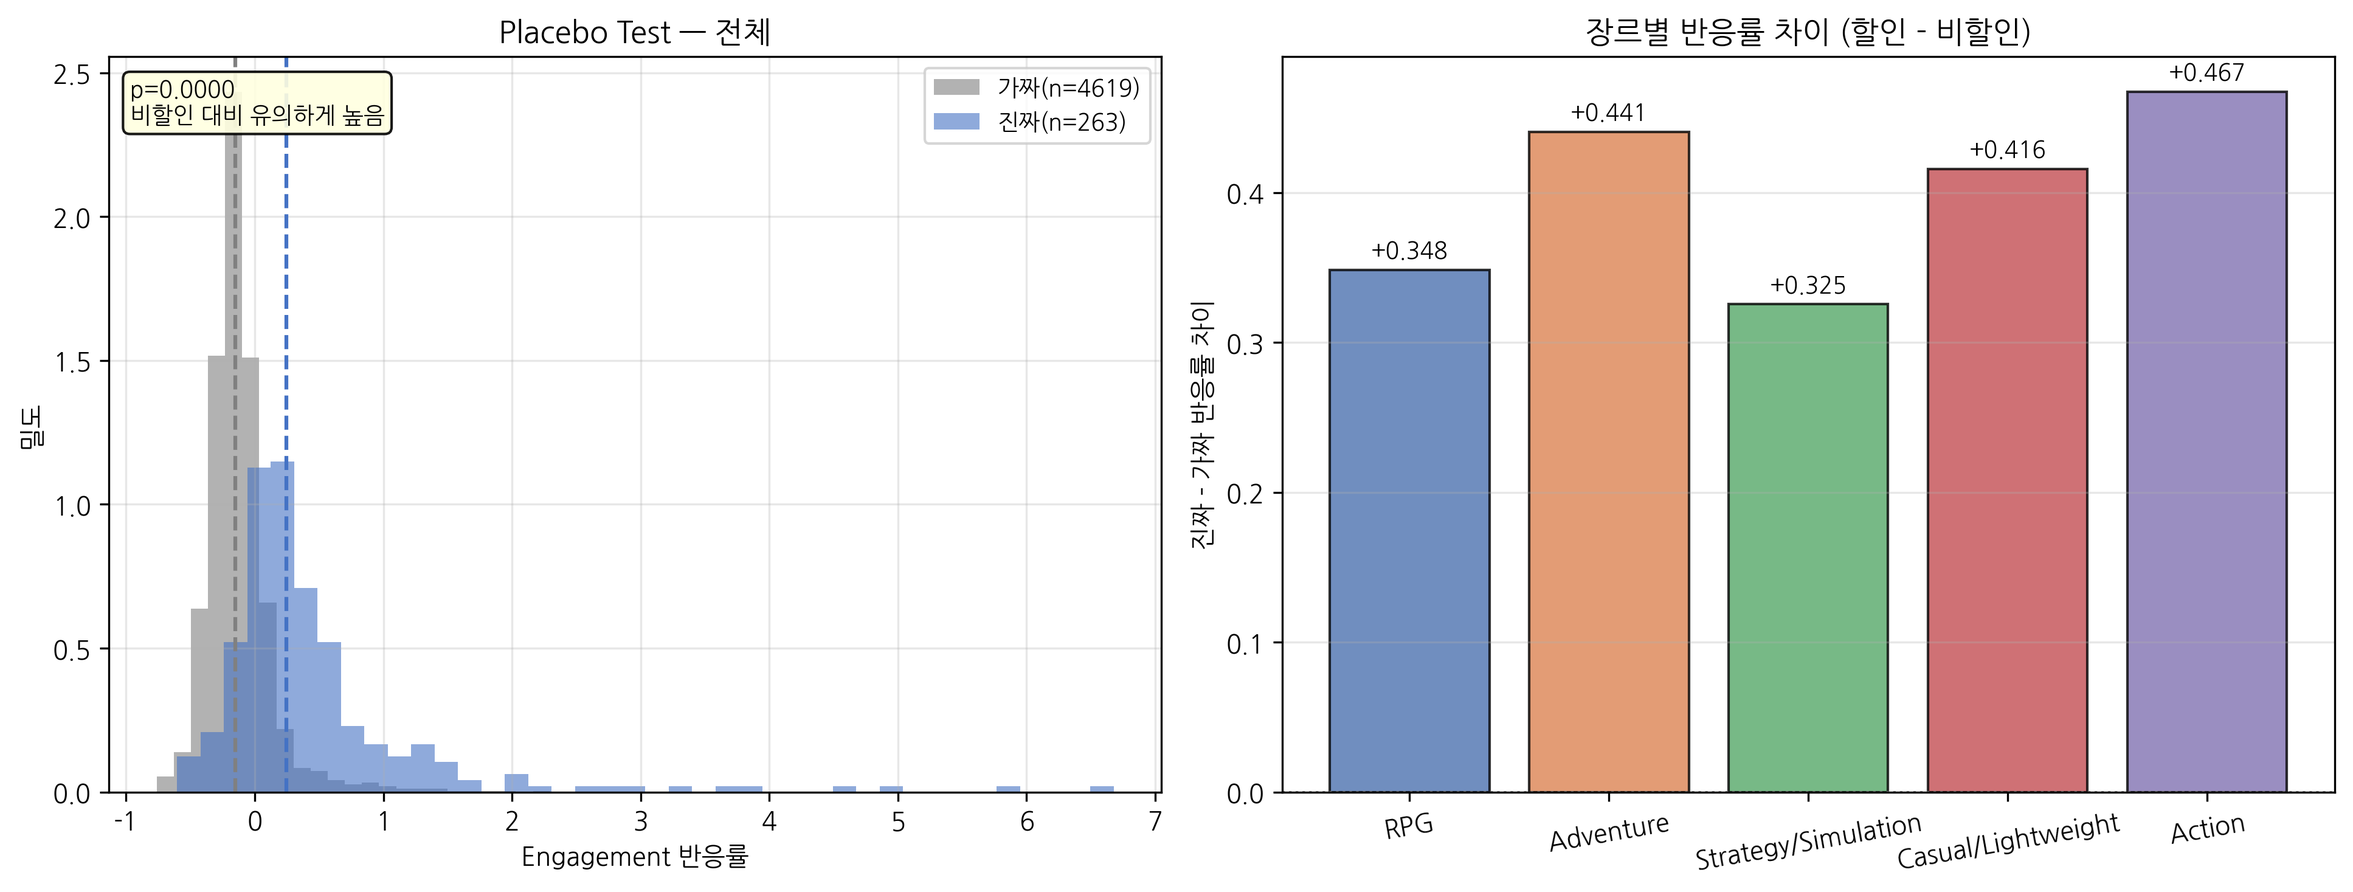
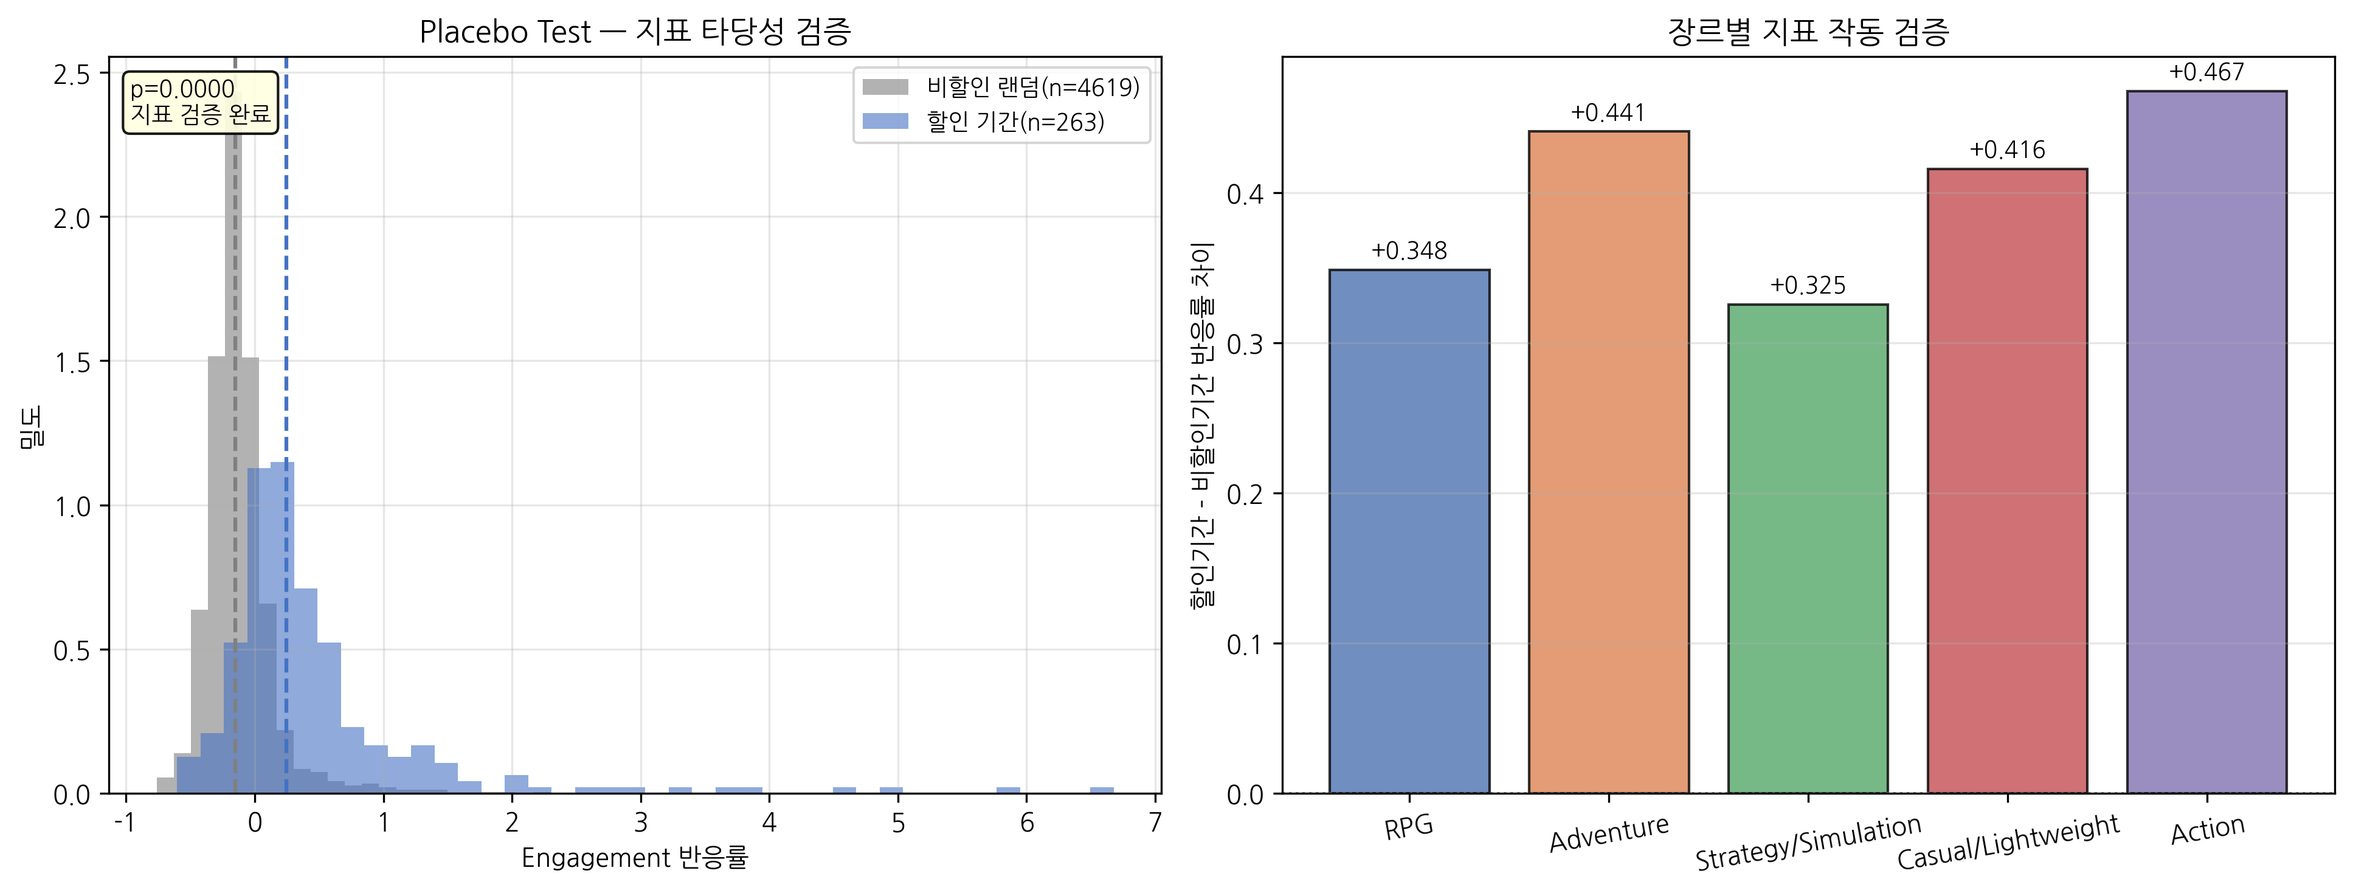
진짜 데이터 전처리 마무리 찐 최종

diff --git a/docs/분석_핵심인사이트.md b/docs/분석_핵심인사이트.md
@@ -1,4 +1,4 @@
-# 분석 핵심 인사이트 — 비직관적 발견 정리
+# 분析 핵심 인사이트 — 비직관적 발견 정리
 
 > 뻔한 결론("할인은 효과가 있다") 말고, 데이터에서 나온 의외의 발견만 추린 문서.  
 > 발표 스크립트 및 웹앱 기획 참고용.
@@ -9,7 +9,7 @@
 
 **확실하게 나온 것 (p < 0.05)**
 - 할인율이 높을수록 반응이 크다 (p=0.004)
-- 할인 기간의 반응 증가가 우연이 아니다 (Placebo Test, p<0.0001)
+- 지표가 실제 할인 이벤트를 감지함 (Placebo Test, p<0.0001)
 
 **패턴은 보이지만 통계적으로 확정하기 어려운 것**
 - 장르별 반응률 차이 (p=0.52) — 경향은 있어 보이지만 우연일 수 있음
@@ -21,10 +21,38 @@
 
 ---
 
+## 지표 검증 — Engagement 반응률 지표가 할인 이벤트를 감지하는가
+
+> 이 섹션은 인사이트가 아니라 **분석 방법론의 타당성 확인**이다.  
+> 발표에서는 인사이트가 아닌 방법론 슬라이드에 배치 권장.
+
+**수치**
+- 진짜 할인 기간 반응률 중앙값: **+0.244** (n=263)
+- 할인이 없던 랜덤 기간 반응률 중앙값:
+  - 기본 기준(모든 무할인 윈도우): **-0.152** (n=4,619)
+  - 보수적 기준(할인 전후 30일 버퍼 제외): **-0.078**
+- 두 기준 모두 Mann-Whitney **p<0.0001** — 5개 장르 모두 동일
+
+**해석**
+
+"할인 기간에 리뷰가 늘어난 게 할인 때문인가, 아니면 그냥 그 시기에 원래 많았던 건가?"
+이 의심을 해소하기 위해, 같은 게임의 할인이 없던 기간을 랜덤하게 골라 같은 방식으로 반응률을 계산했다.
+
+가짜 기간이 마이너스(-0.152)인 이유는, 게임 리뷰는 출시 직후가 가장 많고 시간이 지나면서 자연스럽게 줄어들기 때문이다. 그래서 임의의 7일 윈도우를 고르면 대부분 "직전 30일보다 낮다"는 결과가 나온다.
+
+반면 진짜 할인 기간(+0.244)은 이 자연 감소 흐름과 달리 리뷰 반응이 증가하는 패턴을 보였다. 이는 **우리가 정의한 Engagement 반응률 지표가 실제 할인 이벤트를 구분할 수 있음을 보여준다.**
+
+**발표 활용**
+> "저희가 정의한 Engagement 반응률 지표가 실제 할인 기간과 비할인 기간을 구분할 수 있는지 Placebo Test로 검증했습니다. 할인이 없던 랜덤 기간은 -0.152인 반면, 진짜 할인 기간은 +0.244로 통계적으로 유의미하게 높았습니다(p<0.0001). 단, 이는 완벽한 인과관계 증명이 아니라 지표 타당성 확인입니다."
+
+**주의: 게임 업데이트나 외부 이슈 같은 요인은 완전히 통제되지 않았다.**
+
+---
+
 ## 인사이트 1. Action은 사람이 가장 많이 몰리지만, 긍정률 하락 폭도 가장 크다
 
 **수치**
-- Engagement 반응률: **0.269** (표본 기준 1위, 단 탐색적 결과)
+- Engagement 반응률: **0.269** (표본 기준 1위, 탐색적 결과)
 - 할인 중 긍정률 변화: **-1.9%p**
 - 95% 신뢰구간: [-4.2%p, **+0.0%p**] — 0을 아슬아슬하게 포함
 
@@ -36,7 +64,7 @@
 
 → "많이 팔리는 게 무조건 좋은 건 아니다. Action은 유입은 되지만 만족도 리스크가 있다."
 
-**주의: Action 이벤트가 32건으로 다른 장르(54~87건)보다 적어 탐색적 결과다.**
+**⚠ 탐색적 결과: Action 이벤트 32건, 장르 차이 p=0.52로 확정 불가**
 
 ---
 
@@ -71,12 +99,11 @@
 **해석**
 
 긍정률이 올랐다는 방향은 맞지만, 신뢰구간이 0을 포함하기 때문에
-"유일하게 확실하게 올랐다"고 말하기보다는
-"유일하게 올라가는 경향을 보였다" 수준이 안전하다.
-
-그래도 방향 자체는 흥미롭다. 진입장벽이 높은 장르라 각오하고 들어온 사람만 남기 때문으로 해석된다.
+"유일하게 확실하게 올랐다"보다는 "유일하게 올라가는 경향을 보였다" 수준이 안전하다.
 
 → "Strategy 할인은 사람은 적게 들어오지만, 들어온 사람의 만족도가 유지되는 경향이 있다."
+
+**⚠ 탐색적 결과: CI가 0을 포함하여 통계적으로 확정 불가**
 
 ---
 
@@ -116,37 +143,11 @@
 다만 인기도·장르·할인율이 함께 영향을 미칠 수 있어서 "희소성 때문"이라고 단정하기보다
 "이런 경향이 관찰됐다" 수준이 안전하다.
 
----
-
-## 인사이트 6. 할인 기간 반응 증가가 우연이 아니라는 게 확인됐다 ★★ (Placebo Test)
-
-**수치**
-- 진짜 할인 기간 반응률 중앙값: **+0.244** (n=263)
-- 할인이 없던 랜덤 기간 반응률 중앙값:
-  - 기본 기준(모든 무할인 윈도우): **-0.152** (n=4,619)
-  - 보수적 기준(할인 전후 30일 버퍼 제외): **-0.078**
-- 두 기준 모두 Mann-Whitney **p<0.0001** — 5개 장르 모두 동일
-
-**해석**
-
-"할인 기간에 리뷰가 늘어난 게 할인 때문인가, 아니면 그냥 그 시기에 원래 많았던 건가?"
-이 의심을 해소하기 위해, 같은 게임의 할인이 없던 기간을 랜덤하게 골라 같은 방식으로 반응률을 계산했다.
-
-그랬더니 할인이 없던 기간의 반응률이 오히려 마이너스(-0.078)가 나왔다.
-게임은 출시 직후 리뷰가 많고 시간이 지나면서 자연스럽게 줄어드는데,
-이 자연 감소 기간을 랜덤하게 뽑으면 "직전 30일보다 낮은 7일"이 나오는 게 당연하다.
-진짜 할인 기간(+0.244)은 이 자연 감소 흐름을 뒤집을 만큼 반응을 만들어냈다는 뜻이다.
-
-→ "완벽한 인과관계 증명은 아니지만, 할인 기간의 반응 증가가 단순 우연이나 자연 추세만으로 설명하기 어렵다는 보강 근거를 확보했다."
-
-**주의: 게임 업데이트나 외부 이슈 같은 요인은 완전히 통제되지 않았다.**
-
-**발표 활용**
-> "같은 게임의 할인이 없던 기간과 비교했을 때, 진짜 할인 기간이 통계적으로 유의미하게 높았습니다 (p<0.0001). 단, 이는 완벽한 인과관계 증명이 아니라 보강 근거입니다."
+**⚠ 탐색적 결과: p=0.07로 통계적으로 확정 불가**
 
 ---
 
-## 인사이트 7. Casual/Lightweight는 게임 단위로 보면 압도적 1위다
+## 인사이트 6. Casual/Lightweight는 게임 단위로 보면 가장 높은 반응을 보였다
 
 **수치**
 
@@ -157,14 +158,14 @@
 
 **해석**
 
-이벤트 단위로 보면 3위지만, 게임 하나하나를 기준으로 보면 압도적 1위다.
+이벤트 단위로 보면 3위지만, 게임 단위 기준에서는 가장 높은 반응을 보였다.
 Casual 장르 중 자주 할인하는 게임들의 반응이 약해서 이벤트 평균을 끌어내리고 있었던 것이다.
 
 → "Casual 게임은 자주 할인하면 반응률이 깎이는 경향이 있다. 드문 할인이 더 효과적일 가능성이 있으며, 전략적으로 고려할 수 있다."
 
 ---
 
-## 인사이트 8. 할인을 많이 깎을수록 반응이 커진다 ★ (데이터에서 가장 확실한 신호)
+## 인사이트 7. 할인을 많이 깎을수록 반응이 커진다 ★ (데이터에서 가장 확실한 신호)
 
 **수치**
 
@@ -182,14 +183,16 @@ Casual 장르 중 자주 할인하는 게임들의 반응이 약해서 이벤트
 장르 차이(p=0.52)나 시즌 차이(p=0.13~0.52)보다 훨씬 확실한 신호다.
 할인율이 높아질수록 반응률이 일관되게 증가한다.
 
+처음에는 장르별 차이를 기대했는데, 검증해보니 장르보다 할인 강도가 더 강한 신호로 나타났다는 점이 핵심이다.
+
 → "어떤 장르냐보다 얼마나 깎느냐가 더 중요하다."
 
 **발표 활용**
-> "통계적으로 가장 강한 신호는 장르가 아니라 할인율이었습니다. 많이 깎을수록 반응이 컸고, 이건 p=0.004로 확인됐습니다."
+> "처음에는 장르별 차이를 기대했지만, 검증 결과 장르 차이는 p=0.52로 확정하기 어려웠습니다. 오히려 할인율이 높을수록 반응률이 증가하는 패턴이 p=0.004로 더 강하게 확인됐습니다."
 
 ---
 
-## 인사이트 9. 시즌 세일은 단기 반응이 높고 유지율은 낮은 경향이 있다
+## 인사이트 8. 시즌 세일은 단기 반응이 높고 유지율은 낮은 경향이 있다
 
 **수치**
 
@@ -206,10 +209,26 @@ Casual 장르 중 자주 할인하는 게임들의 반응이 약해서 이벤트
 방향은 흥미롭다. 시즌 세일에는 사람이 더 몰리지만, 끝나고 나서는 유지율이 더 낮다.
 하지만 이 차이가 통계적으로 확실하지는 않다.
 
-쉽게 말하면, 데이터가 더 많았다면 의미 있게 나왔을 수도 있지만
-지금 데이터에서는 "경향이 보인다" 수준이다.
+"많이 몰리는 할인 ≠ 오래 남는 할인"이라는 해석이 가능하지만, 탐색적 패턴으로 제시해야 한다.
 
 → "시즌 세일의 단기·장기 역전 패턴은 흥미로운 경향이나, 확정적 결론보다는 탐색적 관찰로 제시한다."
+
+**⚠ 탐색적 결과: 반응률 p=0.52, 유지율 p=0.13으로 통계적으로 확정 불가**
+
+---
+
+## 최종 결론
+
+본 프로젝트의 결론은 **"할인하면 반응이 증가한다"가 아니다.**
+
+할인은 단기 유입을 만들지만, 그 유입이 장기 유지나 긍정적 경험으로 이어지는지는
+**할인율·시즌성·장르 특성에 따라 달랐다.**
+
+따라서 Steam 할인 전략은 단순히 할인율을 높이는 방식이 아니라,
+단기 반응·유지율·만족도 리스크를 함께 고려해야 한다.
+
+**발표 마지막 문장 권장:**
+> "할인은 단기 유입을 만들지만, 그 유입이 유지율과 만족도로 이어지는 방식은 조건에 따라 달랐습니다. 따라서 할인 전략은 할인율뿐 아니라, 언제 할인하고 얼마나 자주 할인하는지를 함께 고려해야 합니다."
 
 ---
 
@@ -229,6 +248,14 @@ Casual 장르 중 자주 할인하는 게임들의 반응이 약해서 이벤트
 
 ## 예상 질문 대응
 
+### Q. "할인 기간 반응 증가는 당연한 거 아닌가요?"
+
+**A. 맞습니다. 그래서 그 결과를 핵심 인사이트로 제시하지 않았습니다.**
+
+Placebo Test는 인사이트가 아니라, 저희가 정의한 Engagement 반응률 지표가 실제 할인 이벤트를 구분할 수 있는지 확인하는 검증 단계입니다. 핵심 인사이트는 할인으로 생긴 반응이 유지율과 긍정률로 이어지는 방식이 조건별로 달랐다는 점입니다.
+
+---
+
 ### Q. "장르별로 다르다는 게 통계적으로 증명된 건가요?"
 
 **A. 솔직히 말하면 아닙니다. 그래서 탐색적 결과라고 했습니다.**
@@ -237,21 +264,17 @@ Casual 장르 중 자주 할인하는 게임들의 반응이 약해서 이벤트
 
 대신 이 프로젝트에서 통계적으로 확실히 나온 건 두 가지입니다:
 - 할인율이 높을수록 반응이 크다 (p=0.004)
-- 할인 기간 반응 증가가 단순 우연이 아니다 (Placebo Test, p<0.0001)
+- 지표가 할인 이벤트를 감지함 (Placebo Test, p<0.0001)
 
 이 두 가지를 메인 결론으로, 장르·시즌 차이는 "이런 경향이 보였다"는 탐색적 결과로 발표하는 게 가장 방어하기 좋습니다.
 
 ---
 
-### Q. "Placebo Test로 할인이 원인이라고 증명된 건가요?"
+### Q. "할인율이 높으면 반응 높은 것도 당연하지 않나요?"
 
-**A. 완전한 증명은 아닙니다. 보강 근거입니다.**
+**A. 방향은 직관적이지만, 핵심은 장르보다 할인율이 더 강한 신호였다는 점입니다.**
 
-게임 업데이트, 스트리머 영향, 외부 이슈 같은 요인은 통제되지 않았습니다.
-다만 "같은 게임의 할인 없던 기간보다 할인 기간이 통계적으로 유의하게 높다"는 건 확인됐으니,
-단순한 자연 추세나 우연만으로 설명하기는 어렵다는 보강 근거입니다.
-
-> **한 줄 요약:** "증명은 아니지만, 우연이라고 보기도 어렵다."
+처음에는 장르별 차이를 기대했는데, 검증해보니 장르 차이(p=0.52)보다 할인율(p=0.004)이 더 강한 신호였습니다. 즉 "어떤 장르냐"보다 "얼마나 깎느냐"가 사용자 반응을 더 잘 설명했다는 게 핵심입니다.
 
 ---
 
@@ -262,8 +285,6 @@ Casual 장르 중 자주 할인하는 게임들의 반응이 약해서 이벤트
 Steam 스토어 페이지에는 리뷰 기반 평점 배지가 붙습니다.
 - 긍정 비율 95%+ → "매우 긍정적" 배지 → 더 많이 팔림
 - 70% 아래 → "복합적" 배지 → 첫인상이 나빠져 정가 판매 감소
-
-지금 팔렸더라도 평점이 깎이면 이후엔 덜 팔립니다.
 
 > **한 줄 요약:** "구매는 됐지만, 나쁜 리뷰는 다음 구매자를 막습니다."
 
@@ -276,8 +297,8 @@ Steam 스토어 페이지에는 리뷰 기반 평점 배지가 붙습니다.
 입력 순서를 데이터에서 강한 신호 순으로 구성:
 
 **입력**
-1. **할인율** (슬라이더, 10~90%) — 가장 강한 신호
-2. **할인 타이밍** (시즌 세일 / 평시 할인) — 두 번째 신호
+1. **할인율** (슬라이더, 10~90%) — 가장 강한 신호 (p=0.004)
+2. **할인 타이밍** (시즌 세일 / 평시 할인) — 두 번째 신호 (탐색적)
 3. **장르** (참고용 — "탐색적 결과" 라벨 명시)
 4. **연간 할인 횟수** (슬라이더, 1~10회)
 
@@ -285,8 +306,20 @@ Steam 스토어 페이지에는 리뷰 기반 평점 배지가 붙습니다.
 - 과거 유사 조건 기준 반응률 범위 (신뢰구간 포함)
 - 유지율 전망
 - 긍정률 리스크
-- 신뢰도 배지 (할인율: 높음 / 장르: 낮음 / 시즌성: 중간)
+- 신뢰도 배지: 할인율 높음 / 장르 낮음 / 시즌성 중간
 - 전략 메시지
 
 **주의**: 예측 모델이 아니라 과거 패턴 기반 참고 도구.
 "이 조건에서 반응률이 0.XX였습니다"가 아니라 "이 조건의 과거 유사 이벤트 범위"로 표현.
+
+---
+
+## 발표에서 피해야 할 단어 vs 권장 단어
+
+| ❌ 피해야 할 표현 | ✅ 권장 표현 |
+|---------------|-----------|
+| 증명했다, 확인됐다 | 경향이 관찰됐다, 탐색적으로 확인했다 |
+| 효과가 있음 | 비할인 대비 높게 나타남 |
+| 압도적, 훨씬, 유일하게 | 가장, 높게, 상대적으로 |
+| 할인하면 반응이 증가한다 (메인 결론) | 유입의 질이 조건에 따라 달랐다 |
+| 확실히, 확정 | p값 명시 + "탐색적 패턴으로 해석" |

diff --git a/docs/발표용_핵심인사이트_요약.md b/docs/발표용_핵심인사이트_요약.md
@@ -1,0 +1,104 @@
+# 발표용 핵심 인사이트 요약
+
+> 발표 스크립트 바로 쓸 수 있게 정리한 버전.  
+> 통계 숫자보다 "왜 뻔하지 않은가"에 집중.
+
+---
+
+## 발표 핵심 메시지 (한 문장)
+
+> "할인은 단기 유입을 만들지만, 그 유입이 유지율과 만족도로 이어지는 방식은 조건에 따라 달랐다."
+
+---
+
+## 메인 인사이트 3개
+
+### ① 장르보다 할인율이 더 강한 신호였다 ★ (통계적으로 확실)
+
+처음에는 장르별 차이를 기대했지만, 검증해보니 장르 차이(p=0.52)보다 할인율(p=0.004)이 더 강한 신호였다.
+
+| 할인율 | 반응률 |
+| ------ | ------ |
+| ~25%   | 0.125  |
+| 25~50% | 0.202  |
+| 50~75% | 0.280  |
+| 75%+   | 0.324  |
+
+**왜 뻔하지 않은가?**
+단순히 "할인하면 반응이 오른다"가 아니라, 처음 예상했던 **장르보다 할인 강도가 더 중요한 변수**로 나타났다는 점이 핵심이다.
+
+**발표 문장:**
+
+> "처음에는 장르별 차이를 기대했지만, 실제 검증 결과 장르 차이는 통계적으로 확정하기 어려웠습니다. 오히려 할인율이 높아질수록 반응률이 증가하는 패턴이 더 강하게 관찰됐습니다 (p=0.004)."
+
+---
+
+### ② 시즌 세일은 단기 반응은 높지만 유지율은 낮은 경향이 있다 (탐색적)
+
+| 구분        | 단기 반응률 | 유지율    |
+| ----------- | ----------- | --------- |
+| 비시즌 할인 | 0.215       | **0.121** |
+| 시즌 세일   | **0.286**   | 0.056     |
+
+※ 탐색적 패턴 (p값이 충분히 낮지 않음)
+
+**왜 뻔하지 않은가?**
+"시즌 세일에 사람이 몰리는 건 당연하다"고 말하면 뻔하다. 하지만 **몰리는 것과 남는 것이 다르다**는 점이 핵심이다.
+
+**발표 문장:**
+
+> "시즌 세일은 단기 유입에는 유리했지만, 할인 후 유지율은 낮게 나타났습니다. 대형 할인은 관심을 끌지만 장기 참여로 이어지는지는 별개의 문제였습니다. 다만 통계적으로 확정하기 어려운 탐색적 패턴입니다."
+
+---
+
+### ③ 반응률과 만족도는 같이 움직이지 않았다 (탐색적)
+
+Action 장르 사례:
+
+- 할인 중 반응률: 가장 높음 (+0.269)
+- 할인 중 긍정 리뷰 비율 변화: -1.9%p (하락 경향)
+
+※ 신뢰구간이 0을 아슬아슬하게 포함하여 탐색적 결과
+
+**왜 뻔하지 않은가?**
+"할인 = 좋은 반응"이라는 단순 결론을 깬다. **많이 들어와도 만족하지 않는 경우가 있다.**
+
+**발표 문장:**
+
+> "Action은 할인 중 리뷰 반응률은 가장 높았지만, 긍정 리뷰 비율은 하락하는 경향을 보였습니다. 할인으로 많은 사용자가 유입되더라도, 그 유입이 항상 긍정적 경험으로 이어지는 것은 아니었습니다."
+
+---
+
+## 보조 인사이트 (질문 받을 때 쓰기)
+
+| 인사이트         | 한 줄 요약                                                                 |
+| ---------------- | -------------------------------------------------------------------------- |
+| RPG 필터 역설    | 오래 플레이한 사람만 보면 RPG 유지율이 오히려 올라간다                     |
+| Casual 단위 역설 | 이벤트 단위 3위지만 게임 단위로는 1위 — 자주 할인하는 게임이 평균을 깎는다 |
+| 할인 빈도        | 자주 할인할수록 반응이 약해지는 경향 (탐색적)                              |
+
+---
+
+## 교수님 "뻔하지 않냐?" 질문 대응 3종 세트
+
+**Q1. "할인하면 반응 오르는 건 당연하지 않나?"**
+
+> "그래서 그걸 핵심 인사이트로 쓰지 않았습니다. 저희가 주목한 건 장르보다 할인율이 더 강한 신호였다는 점, 그리고 반응이 올라도 만족도는 따로 움직였다는 점입니다."
+
+**Q2. "할인율 높으면 반응 높은 것도 당연하지 않나?"**
+
+> "방향은 직관적이지만, 처음 예상했던 장르 차이보다 할인율이 더 강한 신호로 나타났다는 게 핵심입니다. 즉 어떤 장르냐보다 얼마나 깎느냐가 더 중요했습니다."
+
+**Q3. "시즌 세일 사람 몰리는 것도 당연하지 않나?"**
+
+> "단기 반응률이 높은 건 직관적입니다. 중요한 건 시즌 세일의 유지율이 오히려 낮게 나타났다는 겁니다. 사람이 몰리는 할인과 오래 남는 할인이 다를 수 있다는 점이 핵심입니다."
+
+---
+
+## 최종 결론 슬라이드 문장
+
+> 본 프로젝트의 결론은 "할인하면 반응이 증가한다"가 아닙니다.  
+> 할인은 단기 유입을 만들지만, 그 유입이 장기 유지나 긍정적 경험으로 이어지는지는  
+> **할인율·시즌성·장르 특성에 따라 달랐습니다.**  
+> 따라서 Steam 할인 전략은 할인율뿐 아니라,  
+> 언제 할인하고 얼마나 자주 할인하는지를 함께 고려해야 합니다.
